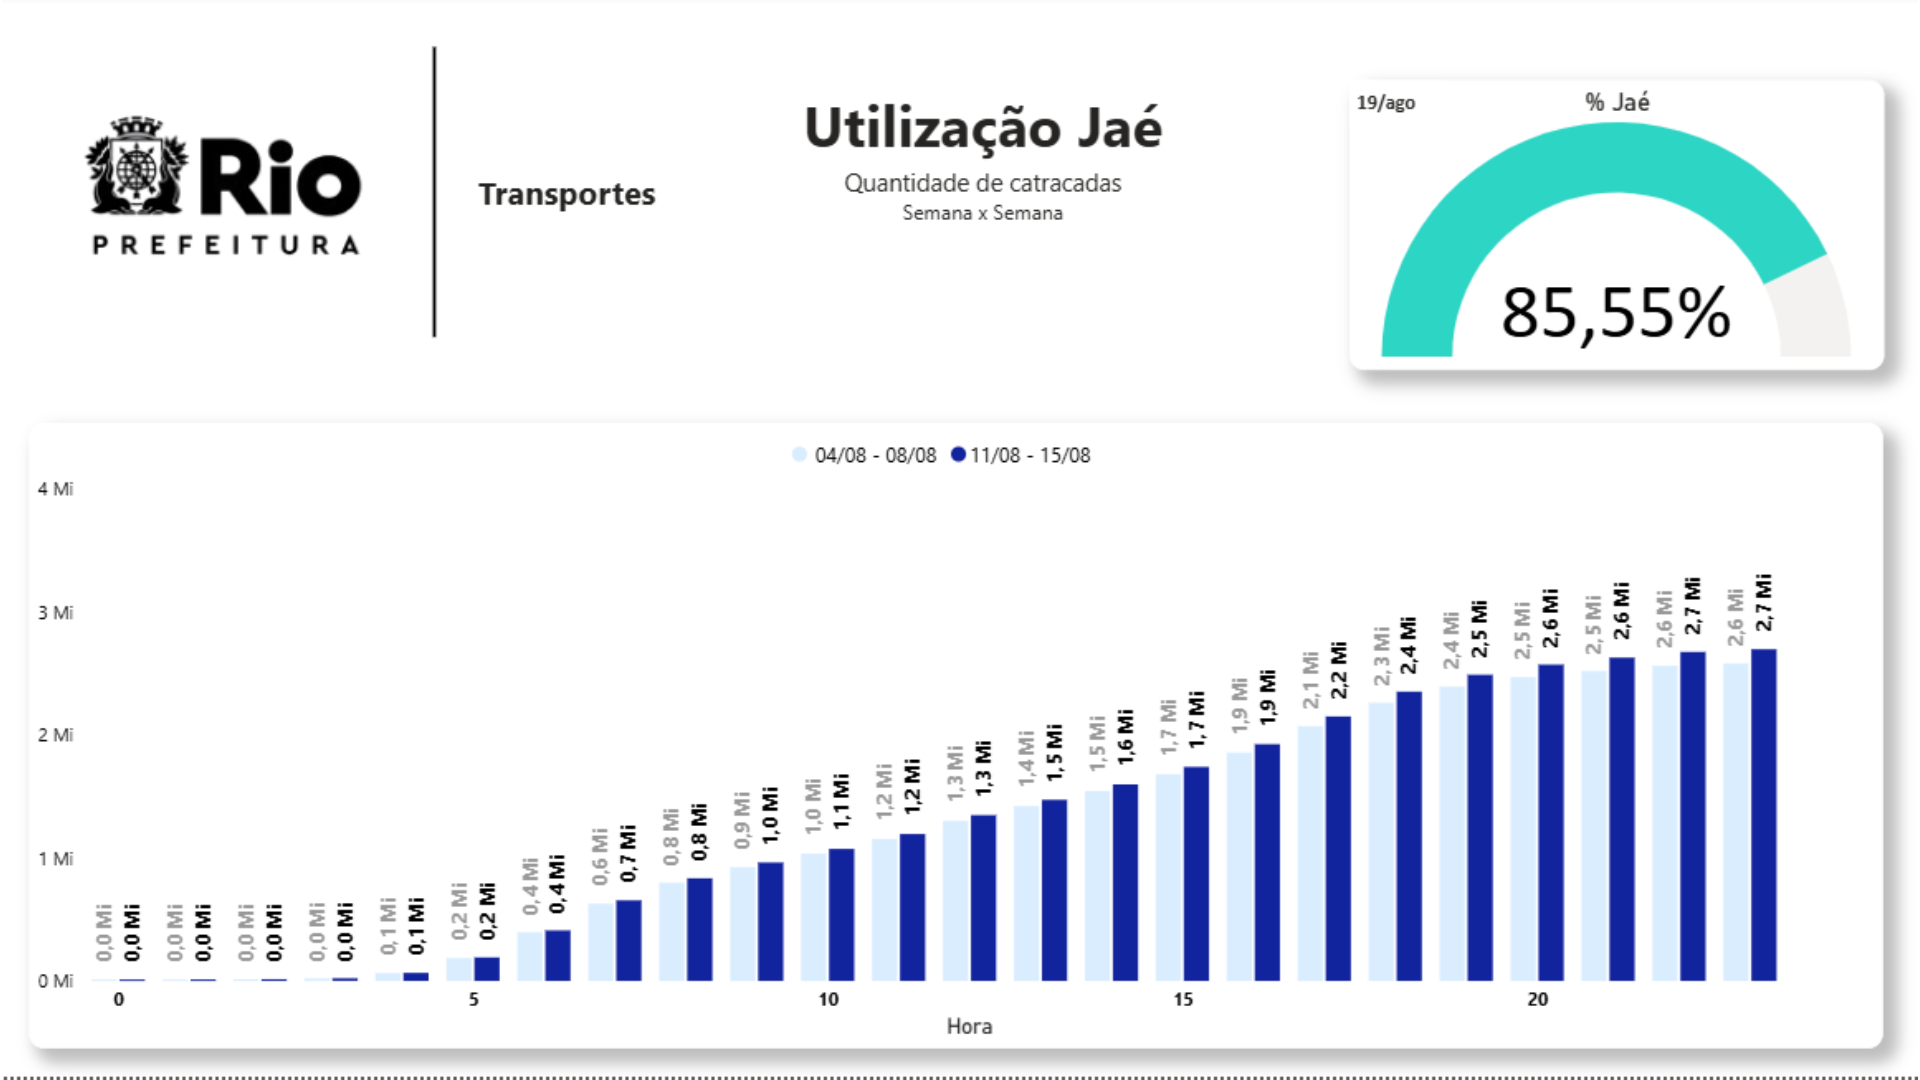
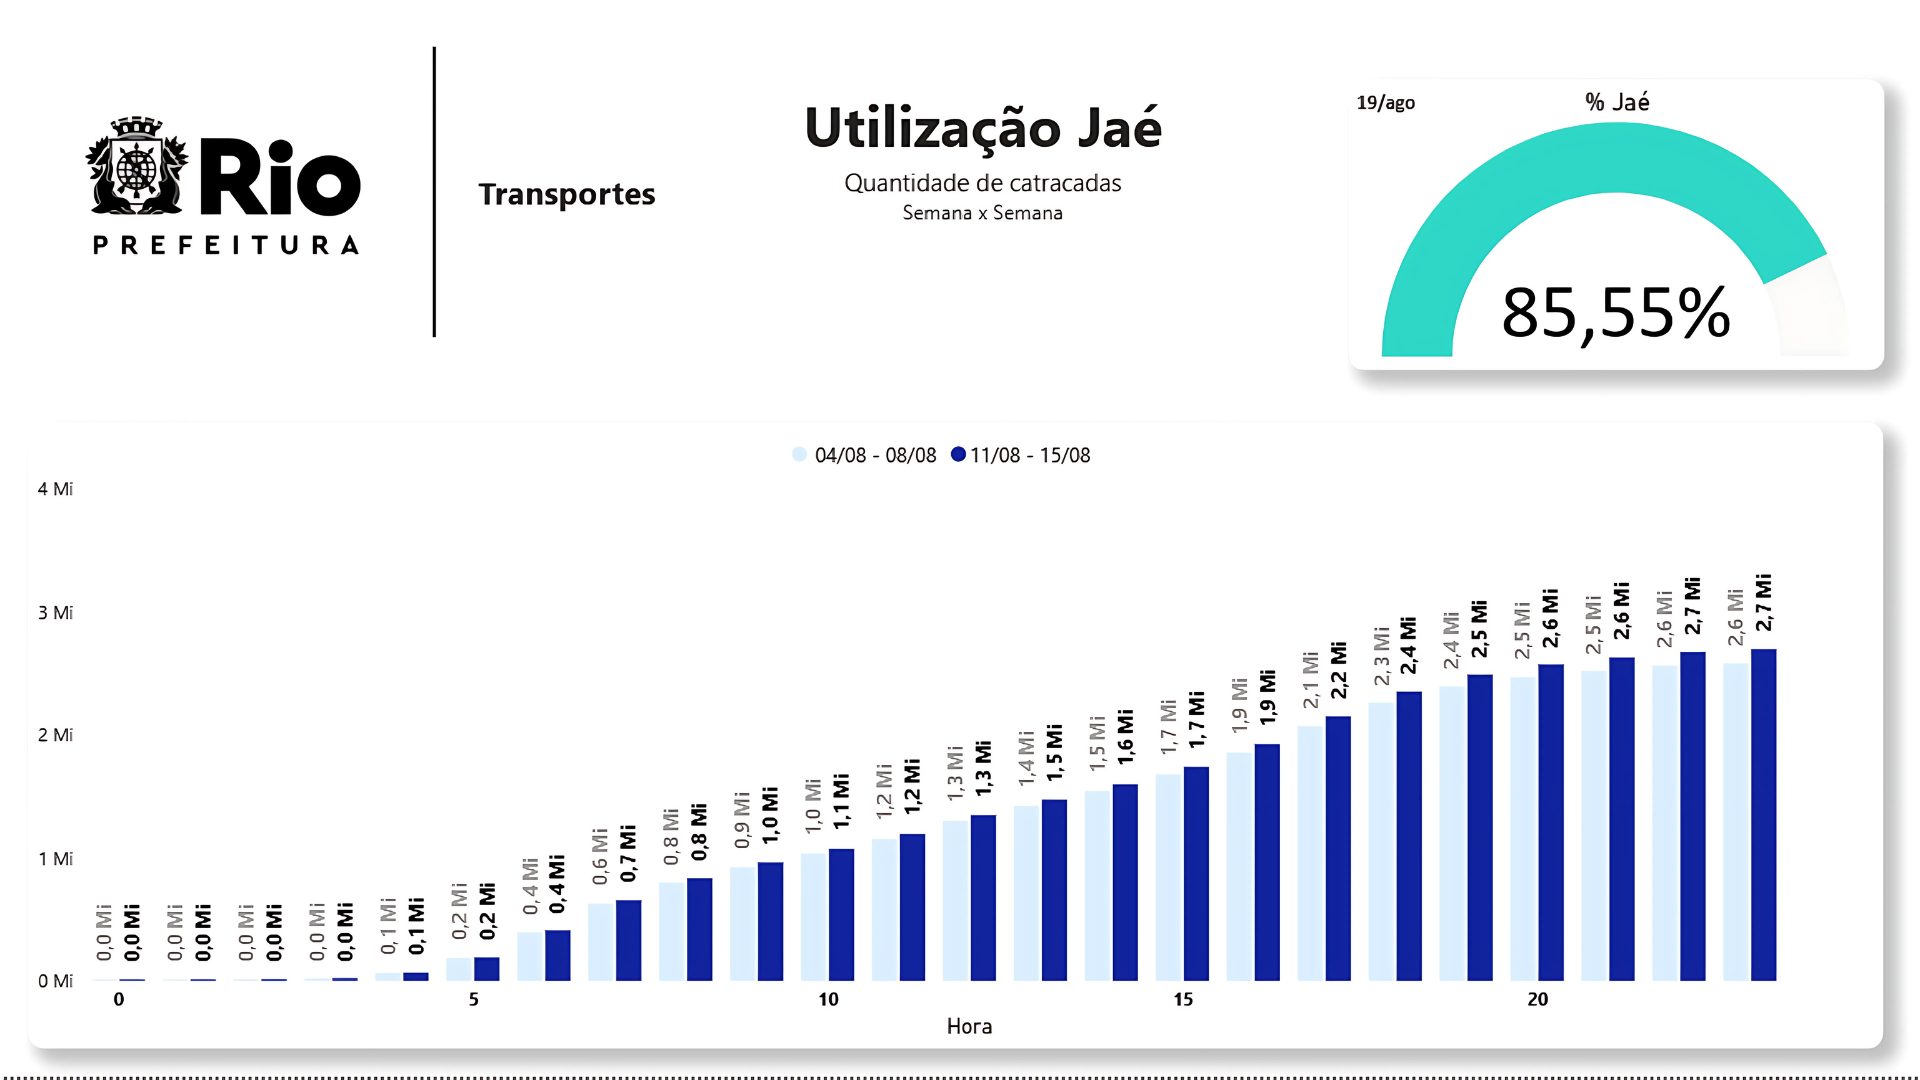
ajustes nas imagens

diff --git a/index.html b/index.html
@@ -16,6 +16,9 @@
   <img id="image5" src="imagem5.png" alt="Imagem 5" style="display: none;">
   <img id="image6" src="imagem6.png" alt="Imagem 6" style="display: none;">
   <img id="image7" src="imagem7.png" alt="Imagem 6" style="display: none;">
+  <img id="image8" src="imagem8.png" alt="Imagem 8" style="display: none">
+  <img id="image9" src="imagem9.png" alt="Imagem 9" style="display: none;">
+  <img id="image10" src="imagem10.png" alt="Imagem 10" style="display: none;">
 </div>
 
 

diff --git a/script.js b/script.js
@@ -5,7 +5,10 @@ const images = [
   document.getElementById('image4'),
   document.getElementById('image5'),
   document.getElementById('image6'),
-  document.getElementById('image7')
+  document.getElementById('image7'),
+  document.getElementById('image8'),
+  document.getElementById('image9'),
+  document.getElementById('image10')
 ];
 
 let currentIndex = 0;
